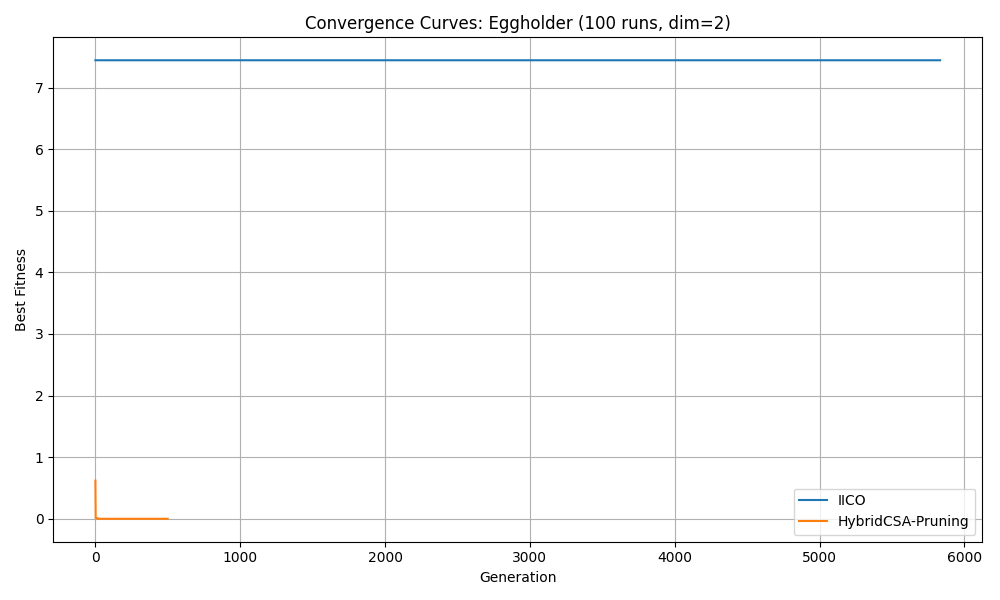
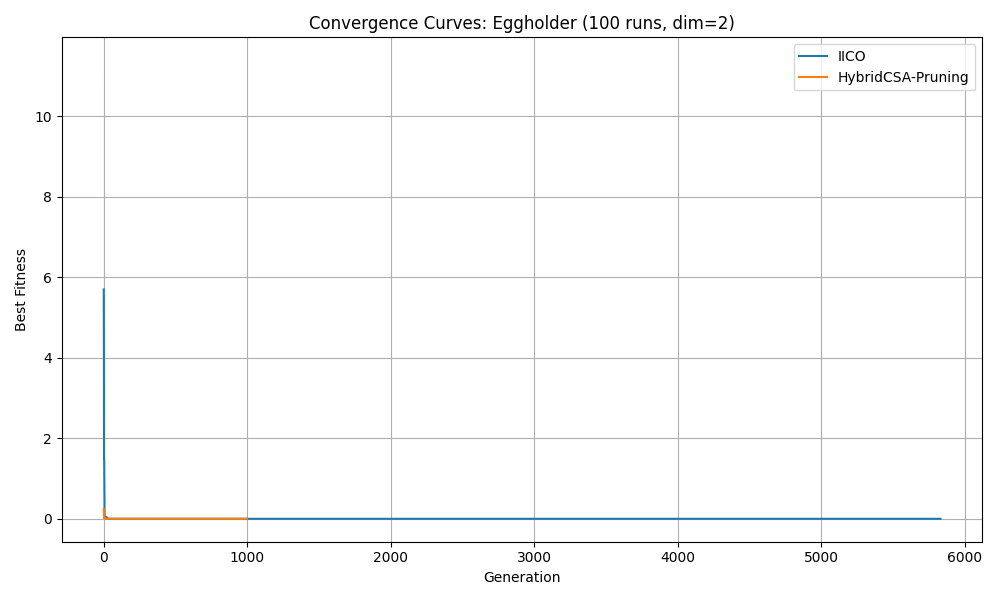
for test2 final

diff --git a/codes/run_all_fcsa.py b/codes/run_all_fcsa.py
@@ -142,19 +142,19 @@ def run_hybrid_original(obj, bounds, seed=None):
         return np.array([f_best])
 
 algorithms = [
-    # ("FCSA", run_fcsa),
-    # ("FCSA-Levy", run_fcsa_levy),
-    # ("Hybrid Original", run_hybrid_original),
-    # ("Hybrid Original + DE", run_hybrid_original_de),
-    # ("Adaptive Pruning", run_hybrid_pruning_adaptive),
-    # ("Hybrid Pruning+DE", run_hybrid_pruning_de_version),
-    # ("Adaptive Pruning+DE", run_hybrid_pruning_de_version_adaptive),
-    # ("FCSA+SP", run_fcsa_sp),
-    # ("FCSA+SP+QMC", run_fcsa_sp_qmc),
+    ("FCSA", run_fcsa),
+    ("FCSA-Levy", run_fcsa_levy),
+    ("Hybrid Original", run_hybrid_original),
+    ("Hybrid Original + DE", run_hybrid_original_de),
+    ("Adaptive Pruning", run_hybrid_pruning_adaptive),
+    ("Hybrid Pruning+DE", run_hybrid_pruning_de_version),
+    ("Adaptive Pruning+DE", run_hybrid_pruning_de_version_adaptive),
+    ("FCSA+SP", run_fcsa_sp),
+    ("FCSA+SP+QMC", run_fcsa_sp_qmc),
     ("IICO", run_iico),
     ("HybridCSA-Pruning", run_hybrid_pruning),
-    # ("HybridCSA-Sobol", run_hybrid_pruning_sobol),
-    # ("HybridCSA++ (Memory Adaptive)", run_hybrid_memory_adaptive),
+    ("HybridCSA-Sobol", run_hybrid_pruning_sobol),
+    ("HybridCSA++ (Memory Adaptive)", run_hybrid_memory_adaptive),
 ]
 
 

diff --git a/codes/hybrid_pruning_de_version_adaptive.py b/codes/hybrid_pruning_de_version_adaptive.py
@@ -34,7 +34,7 @@ class HybridCSA_pruning_de_version_adaptive:
         n_clones: int = 5,
         a_frac: float = 0.15,
         c_threshold: float = 3.0,
-        max_gens: int = 500,
+        max_gens: int = 1000,
         seed: Optional[int] = 42,
         sigma_initial: float = 0.5,
         sigma_final: float = 0.1,
@@ -373,7 +373,7 @@ def run_experiments(func, func_name, runs=100, dim=30):
             n_clones=5,
             a_frac=0.15,
             c_threshold=3.0,
-            max_gens=500,
+            max_gens=1000,
             seed=run,
             sigma_initial=0.5,
             sigma_final=0.1,

diff --git a/codes/hybrid_pruning_de_version.py b/codes/hybrid_pruning_de_version.py
@@ -34,7 +34,7 @@ class HybridCSA_pruning_de_version:
         n_clones: int = 5,
         a_frac: float = 0.15,
         c_threshold: float = 3.0,
-        max_gens: int = 500,
+        max_gens: int = 1000,
         seed: Optional[int] = 42,
         sigma_initial: float = 0.5,
         sigma_final: float = 0.1,
@@ -362,7 +362,7 @@ def run_experiments(func, func_name, runs=100, dim=30):
             n_clones=5,
             a_frac=0.15,
             c_threshold=3.0,
-            max_gens=500,
+            max_gens=1000,
             seed=run,
             sigma_initial=0.5,
             sigma_final=0.1,

diff --git a/codes/hybrid_original_de.py b/codes/hybrid_original_de.py
@@ -33,7 +33,7 @@ class HybridCSAOriginal_de:
         n_clones: int = 5,
         a_frac: float = 0.15,
         c_threshold: float = 3.0,
-        max_gens: int = 500,
+        max_gens: int = 1000,
         seed: Optional[int] = 42,
         sigma_initial: float = 0.5,
         sigma_final: float = 0.1,
@@ -318,7 +318,7 @@ def run_experiments(func, func_name, runs=100, dim=30):
             n_clones=5,
             a_frac=0.15,
             c_threshold=3.0,
-            max_gens=500,
+            max_gens=1000,
             seed=run,
             sigma_initial=0.5,
             sigma_final=0.1,

diff --git a/codes/hybrid_pruning_adaptive.py b/codes/hybrid_pruning_adaptive.py
@@ -34,7 +34,7 @@ class HybridCSA_adaptive:
         n_clones: int = 5,
         a_frac: float = 0.15,
         c_threshold: float = 3.0,
-        max_gens: int = 500,
+        max_gens: int = 1000,
         seed: Optional[int] = 42,
         sigma_initial: float = 0.5,
         sigma_final: float = 0.1,
@@ -347,7 +347,7 @@ def run_experiments(func, func_name, runs=100, dim=30):
             n_clones=5,
             a_frac=0.15,
             c_threshold=3.0,
-            max_gens=500,
+            max_gens=1000,
             seed=run,
             sigma_initial=0.5,
             sigma_final=0.1,

diff --git a/codes/FCSA_IICO_Hybrid_original.py b/codes/FCSA_IICO_Hybrid_original.py
@@ -33,7 +33,7 @@ class HybridCSAOriginal:
         n_clones: int = 5,
         a_frac: float = 0.15,
         c_threshold: float = 3.0,
-        max_gens: int = 500,
+        max_gens: int = 1000,
         seed: Optional[int] = 42,
         sigma_initial: float = 0.5,
         sigma_final: float = 0.1,
@@ -294,7 +294,7 @@ def run_experiments(func, func_name, runs=100, dim=30):
             n_clones=5,
             a_frac=0.15,
             c_threshold=3.0,
-            max_gens=500,
+            max_gens=1000,
             seed=run,
             sigma_initial=0.5,
             sigma_final=0.1,

diff --git a/codes/hybrid_pruning.py b/codes/hybrid_pruning.py
@@ -34,7 +34,7 @@ class HybridCSA:
         n_clones: int = 5,
         a_frac: float = 0.15,
         c_threshold: float = 3.0,
-        max_gens: int = 500,
+        max_gens: int = 1000,
         seed: Optional[int] = 42,
         sigma_initial: float = 0.5,
         sigma_final: float = 0.1,
@@ -334,7 +334,7 @@ def run_experiments(func, func_name, runs=100, dim=30):
             n_clones=5,
             a_frac=0.15,
             c_threshold=3.0,
-            max_gens=500,
+            max_gens=1000,
             seed=run,
             sigma_initial=0.5,
             sigma_final=0.1,

diff --git a/codes/hybrid_w_sobol_synaptic_pruning.py b/codes/hybrid_w_sobol_synaptic_pruning.py
@@ -43,7 +43,7 @@ class HybridCSA:
         n_clones: int = 5,
         a_frac: float = 0.15,
         c_threshold: float = 3.0,
-        max_gens: int = 500,
+        max_gens: int = 1000,
         seed: Optional[int] = 42,
         sigma_initial: float = 0.5,
         sigma_final: float = 0.1,
@@ -373,7 +373,7 @@ def run_experiments(func, func_name, runs=100, dim=30):
             n_clones=5,
             a_frac=0.15,
             c_threshold=3.0,
-            max_gens=500,
+            max_gens=1000,
             seed=run,
             sigma_initial=0.5,
             sigma_final=0.1,

diff --git a/codes/hybrid_csa_chaos_sobol_δx_memory_adaptive_pruning.py b/codes/hybrid_csa_chaos_sobol_δx_memory_adaptive_pruning.py
@@ -478,7 +478,7 @@ def run_experiments(func, name: str, runs: int = 10, dim: int = 30) -> Dict[str,
             N=60,
             n_select=15,
             n_clones=5,
-            max_gens=500,
+            max_gens=1000,
             seed=r,
             sigma_initial=0.5,
             sigma_final=0.1,
